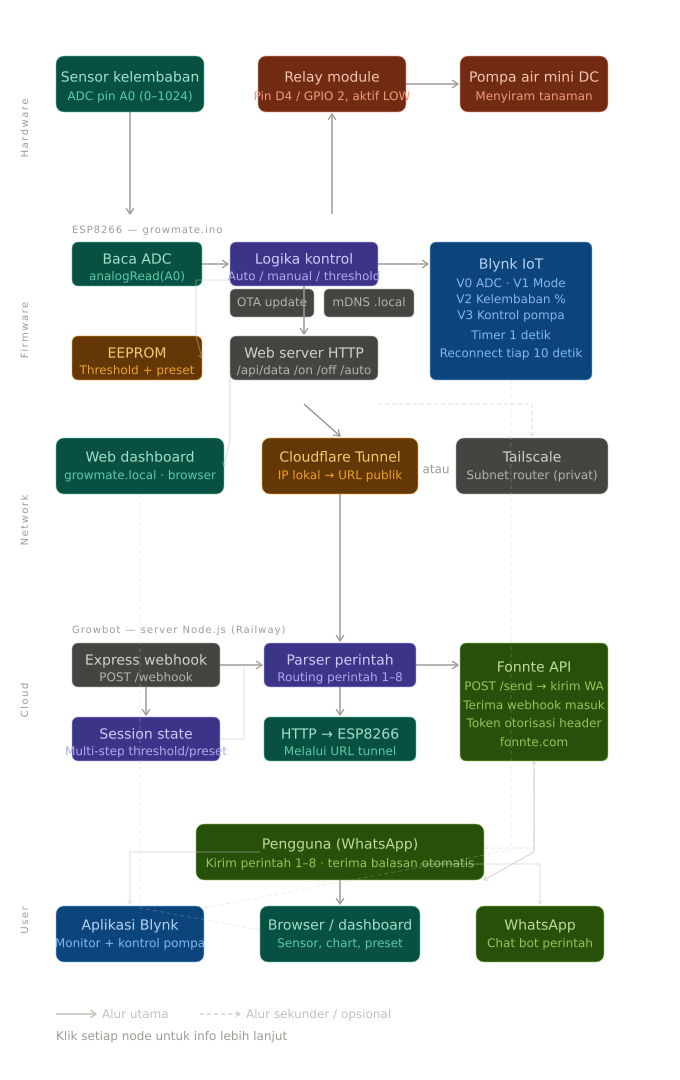
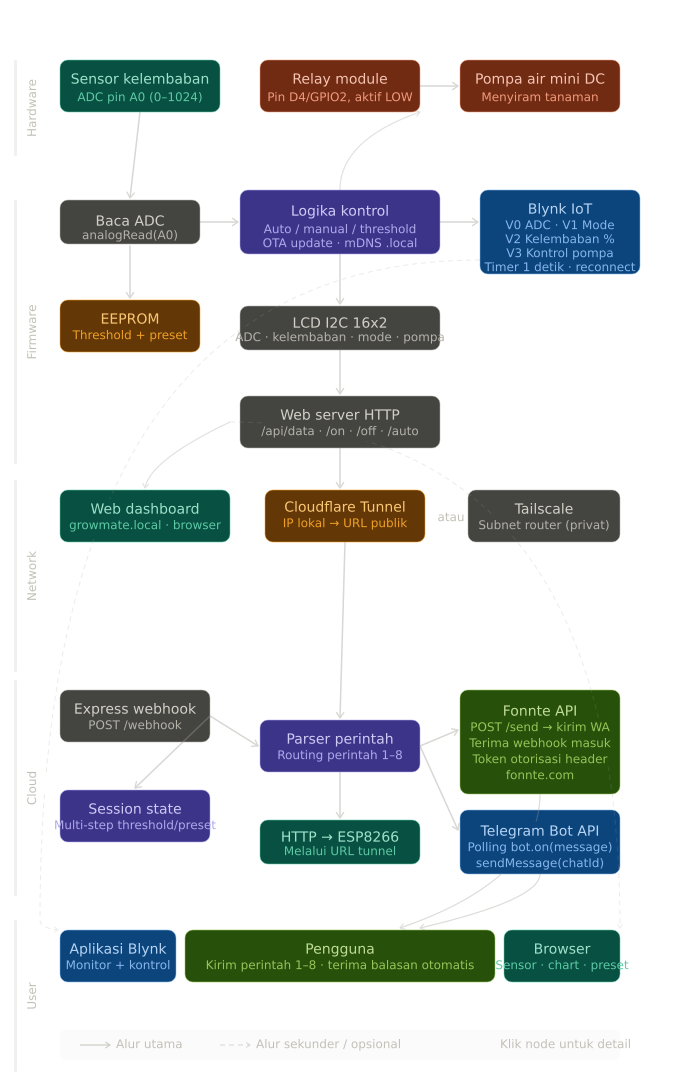
Update flowchart asset to improve visual representation

diff --git a/README.md b/README.md
@@ -1,15 +1,17 @@
 <div align="center">
   <img src="asset/growmate.png" alt="Growmate Logo" width="120" height="120" style="border-radius:12px"/>
   <h1>Growbot</h1>
-  <p>WhatsApp Gateway untuk <a href="https://github.com/hilmyah/Growmate">Growmate</a> — sistem irigasi cerdas berbasis ESP8266 / WEMOS D1 Mini</p>
+  <p>WhatsApp & Telegram Gateway untuk <a href="https://github.com/hilmyah/Growmate">Growmate</a> — sistem irigasi cerdas berbasis ESP8266 / WEMOS D1 Mini</p>
 </div>
 
 ---
 
-Growbot adalah server perantara berbasis **Node.js** yang menghubungkan WhatsApp (via Fonnte) dengan modul ESP8266 Growmate. Sistem irigasi dapat dipantau dan dikontrol dari jarak jauh hanya dengan mengirim pesan teks biasa ke nomor WhatsApp bot.
+Growbot adalah server perantara berbasis **Node.js** yang menghubungkan **WhatsApp** (via Fonnte) dan **Telegram** dengan modul ESP8266 Growmate. Sistem irigasi dapat dipantau dan dikontrol dari jarak jauh melalui pesan teks biasa. Kedua platform berjalan bersamaan dan saling membackup — jika satu bermasalah, platform lainnya tetap berfungsi.
 
 ```
-WhatsApp → Fonnte → Growbot (Railway) → Cloudflare Tunnel / Tailscale → ESP8266
+WhatsApp  →  Fonnte  ┐
+                      ├→  Growbot (Railway)  →  Cloudflare Tunnel  →  ESP8266
+Telegram  →  Polling ┘
 ```
 
 > Repo firmware dan hardware: [hilmyah/Growmate](https://github.com/hilmyah/Growmate)
@@ -23,12 +25,13 @@ WhatsApp → Fonnte → Growbot (Railway) → Cloudflare Tunnel / Tailscale → 
 - [Struktur Proyek](#struktur-proyek)
 - [Persyaratan](#persyaratan)
 - [Tahap 1 — Instalasi](#tahap-1--instalasi)
-- [Tahap 2 — Setup Fonnte](#tahap-2--setup-fonnte)
-- [Tahap 3 — Remote Access](#tahap-3--remote-access)
+- [Tahap 2 — Setup WhatsApp (Fonnte)](#tahap-2--setup-whatsapp-fonnte)
+- [Tahap 3 — Setup Telegram Bot](#tahap-3--setup-telegram-bot)
+- [Tahap 4 — Remote Access](#tahap-4--remote-access)
   - [Opsi A — Cloudflare Tunnel](#opsi-a--cloudflare-tunnel-direkomendasikan)
   - [Opsi B — Tailscale Subnet Router](#opsi-b--tailscale-subnet-router)
-- [Tahap 4 — Deploy ke Railway](#tahap-4--deploy-ke-railway)
-- [Tahap 5 — Menjalankan Secara Lokal](#tahap-5--menjalankan-secara-lokal)
+- [Tahap 5 — Deploy ke Railway](#tahap-5--deploy-ke-railway)
+- [Tahap 6 — Menjalankan Secara Lokal](#tahap-6--menjalankan-secara-lokal)
 - [Referensi API ESP8266](#referensi-api-esp8266)
 
 ---
@@ -40,13 +43,13 @@ WhatsApp → Fonnte → Growbot (Railway) → Cloudflare Tunnel / Tailscale → 
 | `1` | Status terkini — ADC, kelembaban %, kondisi tanah, mode, threshold, waktu terakhir disiram |
 | `2` | Nyalakan pompa manual (mati otomatis dalam 60 detik) |
 | `3` | Matikan pompa manual |
-| `4` | Aktifkan mode otomatis — pompa bekerja berdasarkan threshold |
-| `5` | Atur nilai threshold kelembaban (input multi-step, rentang 200–1024) |
+| `4` | Aktifkan mode otomatis |
+| `5` | Atur nilai threshold (input multi-step, rentang 200–1024) |
 | `6` | Tambah preset tanaman baru (nama + threshold, input multi-step) |
-| `7` | Riwayat 5 data kelembaban terakhir beserta persentasenya |
+| `7` | Riwayat 5 data kelembaban terakhir |
 | `8` | Jumlah sesi penyiraman hari ini |
 
-Menu perintah dikirimkan otomatis di setiap balasan sehingga pengguna tidak perlu menghapal.
+Menu dikirim otomatis di setiap balasan. Kedua platform (WA & Telegram) mendukung seluruh perintah di atas. Token masing-masing bersifat opsional — platform hanya aktif jika token-nya diisi di `.env`.
 
 ---
 
@@ -56,21 +59,23 @@ Menu perintah dikirimkan otomatis di setiap balasan sehingga pengguna tidak perl
 
 Alur singkat:
 
-1. **ESP8266 / WEMOS D1 Mini** membaca kelembaban tanah via ADC, menampilkan status di LCD, dan menjalankan web server HTTP lokal.
+1. **ESP8266 / WEMOS D1 Mini** membaca kelembaban tanah, menampilkan status di LCD, dan menjalankan web server HTTP lokal.
 2. **Cloudflare Tunnel / Tailscale** mengekspos IP lokal ESP8266 ke internet secara aman.
-3. **Growbot** (di Railway) menerima pesan dari Fonnte melalui webhook, memparsing perintah, lalu memanggil endpoint ESP melalui URL tunnel.
-4. **Fonnte** meneruskan balasan dari Growbot ke WhatsApp pengguna.
+3. **Growbot** (di Railway) menerima pesan dari Fonnte via webhook **atau** dari Telegram via polling, memproses perintah, lalu memanggil endpoint ESP melalui URL tunnel.
+4. Balasan dikirim balik ke pengguna di platform yang sama.
+
+Session state (multi-step untuk threshold dan preset) dipisah per platform menggunakan key format `wa:<nomor>` dan `tg:<chatId>`, sehingga keduanya tidak saling bentrok.
 
 ---
 
 ## Struktur Proyek
 
 ```
-growbot/
+Growbot/
 ├── asset/
 │   ├── flowchart.png     # Diagram alur sistem
 │   └── growmate.png      # Logo proyek
-├── index.js              # Server utama — webhook, routing perintah, komunikasi ESP
+├── index.js              # Server utama — webhook WA, polling TG, routing perintah
 ├── package.json
 ├── package-lock.json
 ├── .env.example          # Template variabel environment
@@ -81,27 +86,30 @@ growbot/
 
 | Bagian | Keterangan |
 |---|---|
-| `sessions` | Object in-memory untuk menyimpan state percakapan multi-step (threshold, preset) |
+| `sessions` | Object in-memory — state percakapan multi-step per platform & pengguna |
 | `menuText()` | Generator teks menu yang disisipkan di setiap balasan |
-| `sendWA(to, msg)` | Mengirim pesan ke nomor WhatsApp tertentu via Fonnte API |
-| `getESPData()` | `GET /api/data` ke ESP — mengambil status sensor, pompa, mode, threshold, dan data LCD |
-| `cmdESP(path)` | `GET {path}` ke ESP — mengirim perintah seperti `/on`, `/off`, `/auto` |
-| `POST /webhook` | Endpoint utama yang menerima pesan masuk dari Fonnte dan memroses perintah |
+| `sendMsg(platform, target, text)` | Abstraksi pengiriman pesan — WA via Fonnte, Telegram via `bot.sendMessage` |
+| `handleMessage(platform, target, message)` | Logika terpusat — dipanggil oleh webhook WA dan listener Telegram |
+| `getESPData()` | `GET /api/data` ke ESP |
+| `cmdESP(path)` | `GET {path}` ke ESP — perintah `/on`, `/off`, `/auto`, `/api/threshold` |
+| `POST /webhook` | Menerima pesan masuk dari Fonnte (WhatsApp) |
+| `bot.on('message')` | Menerima pesan masuk dari Telegram via polling |
 
 ---
 
 ## Persyaratan
 
 - Node.js v16 atau lebih baru
-- Akun [Fonnte](https://fonnte.com) dengan device WhatsApp aktif
-- Firmware Growmate sudah berjalan di ESP8266 / WEMOS D1 Mini (lihat [hilmyah/Growmate](https://github.com/hilmyah/Growmate))
-- `cloudflared` **atau** Tailscale terinstal di komputer yang satu jaringan dengan ESP8266
+- Akun [Fonnte](https://fonnte.com) dengan device WhatsApp aktif *(opsional — bisa WA saja, TG saja, atau keduanya)*
+- Bot Telegram dari [@BotFather](https://t.me/BotFather) *(opsional)*
+- Firmware Growmate sudah berjalan di ESP8266 (lihat [hilmyah/Growmate](https://github.com/hilmyah/Growmate))
+- `cloudflared` atau Tailscale di komputer yang satu jaringan dengan ESP8266
 
 ---
 
 ## Tahap 1 — Instalasi
 
-**1. Clone repo dan install dependensi**
+**Clone dan install dependensi:**
 
 ```bash
 git clone https://github.com/hilmyah/Growbot.git
@@ -109,92 +117,83 @@ cd Growbot
 npm install
 ```
 
-**2. Salin dan isi file environment**
+**Salin dan isi file environment:**
 
 ```bash
 cp .env.example .env
 ```
 
-Edit `.env` dan isi nilainya:
-
 ```ini
-FONNTE_TOKEN=token_dari_dashboard_fonnte
-ESP_URL=https://url-tunnel.trycloudflare.com
+# WhatsApp — token dari dashboard Fonnte (kosongkan jika tidak dipakai)
+FONNTE_TOKEN=token_dari_fonnte
+
+# Telegram — token dari @BotFather (kosongkan jika tidak dipakai)
+TELEGRAM_TOKEN=1234567890:AAHxxxxxxxxxxxxxxxxxxxxxxxxxxxxxxxxx
+
+# URL ESP8266 dari Cloudflare Tunnel atau Tailscale IP
+ESP_URL=https://random-name.trycloudflare.com
+
 PORT=3000
 ```
 
-| Variabel | Keterangan |
-|---|---|
-| `FONNTE_TOKEN` | Token dari dashboard Fonnte (lihat Tahap 2) |
-| `ESP_URL` | URL publik ESP8266 dari Cloudflare Tunnel atau IP via Tailscale (lihat Tahap 3) |
-| `PORT` | Port server (default: `3000`) |
+Saat server dijalankan, terminal menampilkan platform mana yang aktif:
+```
+WhatsApp (Fonnte) aktif.
+Telegram Bot aktif.
+Server aktif pada port 3000
+```
 
 ---
 
-## Tahap 2 — Setup Fonnte
+## Tahap 2 — Setup WhatsApp (Fonnte)
 
-Fonnte berfungsi sebagai jembatan antara WhatsApp dan server Growbot.
-
-1. Buka [fonnte.com](https://fonnte.com) dan buat akun.
-2. Di dashboard, pilih **Tambah Device** → scan QR Code menggunakan WhatsApp yang akan dijadikan bot.
-3. Salin **Token** yang muncul, masukkan ke `FONNTE_TOKEN` di file `.env`.
-4. Setelah server Growbot di-deploy (lihat Tahap 4), buka pengaturan device di Fonnte dan isi kolom **Webhook URL**:
+1. Buka [fonnte.com](https://fonnte.com) → buat akun
+2. **Tambah Device** → scan QR menggunakan WhatsApp yang dijadikan bot
+3. Salin **Token** → masukkan ke `FONNTE_TOKEN` di `.env`
+4. Setelah server di-deploy (lihat Tahap 5), isi **Webhook URL** di pengaturan device Fonnte:
    ```
    https://nama-app.up.railway.app/webhook
    ```
-5. Kirim pesan apa saja ke nomor bot untuk memastikan webhook aktif.
-
-> Untuk pengujian lokal, baca [Tahap 5](#tahap-5--menjalankan-secara-lokal) untuk cara mendapatkan URL publik sementara.
+5. Kirim pesan apa saja ke nomor bot untuk memverifikasi webhook aktif
 
 ---
 
-## Tahap 3 — Remote Access
+## Tahap 3 — Setup Telegram Bot
 
-Server Growbot yang berjalan di Railway tidak dapat langsung menjangkau ESP8266 di jaringan lokal. Gunakan salah satu metode di bawah pada komputer yang **terhubung ke WiFi yang sama dengan ESP8266** dan biarkan berjalan selama sistem digunakan.
+1. Buka [@BotFather](https://t.me/BotFather) di Telegram → kirim `/newbot`
+2. Ikuti instruksi — pilih nama dan username bot
+3. Salin **token** yang diberikan (format: `1234567890:AAHxxxxxxx`) → masukkan ke `TELEGRAM_TOKEN` di `.env`
+4. Tidak perlu konfigurasi webhook — Growbot menggunakan **polling** sehingga langsung aktif saat server berjalan
+
+> Telegram polling tidak memerlukan URL publik untuk bot itu sendiri. Yang memerlukan URL publik hanyalah `ESP_URL` (tunnel ke ESP8266).
+
+---
+
+## Tahap 4 — Remote Access
+
+Server Growbot di Railway tidak dapat langsung menjangkau ESP8266 di jaringan lokal. Jalankan salah satu metode berikut di komputer yang **satu jaringan WiFi dengan ESP8266** dan biarkan berjalan selama sistem digunakan.
 
 ### Opsi A — Cloudflare Tunnel (Direkomendasikan)
 
-Tidak memerlukan akun, URL publik langsung aktif tanpa konfigurasi port forwarding.
-
-**Instalasi `cloudflared`:**
-
 ```bash
-# macOS
-brew install cloudflared
+# Instalasi
+brew install cloudflared              # macOS
+winget install Cloudflare.cloudflared # Windows
 
-# Windows (via winget)
-winget install Cloudflare.cloudflared
-
-# Linux (Debian/Ubuntu)
-curl -L https://pkg.cloudflare.com/cloudflared-stable-linux-amd64.deb -o cloudflared.deb
-sudo dpkg -i cloudflared.deb
-```
-
-**Jalankan tunnel ke IP ESP8266:**
-
-```bash
+# Jalankan tunnel ke IP ESP8266
 cloudflared tunnel --url http://192.168.X.X
-# Ganti dengan IP ESP8266 yang tampil di Serial Monitor Arduino IDE
 ```
 
-URL publik akan muncul di terminal:
+URL publik muncul di terminal:
 ```
 https://random-name.trycloudflare.com
 ```
 
-Salin URL ini ke `ESP_URL` di file `.env` atau variabel Railway.
+Salin ke `ESP_URL` di `.env` atau variabel Railway.
 
-> **Catatan:** URL berubah setiap kali `cloudflared` dijalankan ulang. Untuk URL permanen, daftar akun Cloudflare gratis dan buat [Named Tunnel](https://developers.cloudflare.com/cloudflare-one/connections/connect-networks/).
-
----
+> URL berubah setiap `cloudflared` dijalankan ulang. Untuk URL permanen, buat [Named Tunnel](https://developers.cloudflare.com/cloudflare-one/connections/connect-networks/) dengan akun Cloudflare gratis.
 
 ### Opsi B — Tailscale Subnet Router
-
-Cocok jika akses ingin dibatasi hanya ke anggota tim atau perangkat tertentu. Koneksi berjalan lewat jaringan privat Tailscale tanpa URL publik.
-
-**Instalasi Tailscale:** unduh di [tailscale.com/download](https://tailscale.com/download).
-
-**Aktifkan subnet routing** di komputer yang satu jaringan dengan ESP8266:
 
 ```bash
 # Linux / macOS
@@ -204,79 +203,70 @@ sudo tailscale up --advertise-routes=192.168.1.0/24
 tailscale up --advertise-routes=192.168.1.0/24
 ```
 
-> Sesuaikan `192.168.1.0/24` dengan subnet WiFi yang digunakan (cek dengan `ipconfig` / `ip a`).
+Sesuaikan subnet dengan jaringan WiFi yang digunakan. Setujui route di [Tailscale Admin Console](https://login.tailscale.com/admin/machines), lalu gunakan IP lokal ESP8266 sebagai `ESP_URL`:
 
-Setelah itu:
-
-1. Buka [Tailscale Admin Console](https://login.tailscale.com/admin/machines).
-2. Temukan perangkat yang baru terhubung → klik **Edit route settings** → aktifkan subnet yang diiklankan.
-3. Pastikan server Railway juga terdaftar di akun Tailscale yang sama (atau gunakan Tailscale Auth Key untuk otomasi).
-
-Gunakan IP lokal ESP8266 sebagai `ESP_URL`:
 ```ini
 ESP_URL=http://192.168.1.X
 ```
 
 ---
 
-## Tahap 4 — Deploy ke Railway
+## Tahap 5 — Deploy ke Railway
 
-Railway menjalankan Growbot secara permanen di cloud tanpa perlu menyalakan komputer sendiri.
-
-1. Push repo ini ke GitHub (fork atau clone ke akun kamu).
-2. Buka [railway.app](https://railway.app) → **New Project** → **Deploy from GitHub Repo**.
-3. Pilih repo `Growbot`.
-4. Buka tab **Variables** di Railway dan tambahkan:
+1. Push repo ini ke GitHub
+2. Buka [railway.app](https://railway.app) → **New Project** → **Deploy from GitHub Repo**
+3. Pilih repo `Growbot`
+4. Buka tab **Variables**, tambahkan:
 
    | Key | Value |
    |---|---|
-   | `FONNTE_TOKEN` | Token dari Fonnte |
-   | `ESP_URL` | URL Cloudflare Tunnel atau IP via Tailscale |
+   | `FONNTE_TOKEN` | Token Fonnte *(kosongkan jika tidak dipakai)* |
+   | `TELEGRAM_TOKEN` | Token BotFather *(kosongkan jika tidak dipakai)* |
+   | `ESP_URL` | URL Cloudflare Tunnel atau IP Tailscale |
    | `PORT` | `3000` |
 
-5. Railway otomatis menjalankan `npm start` setelah deploy selesai.
-6. Salin **URL domain Railway** yang diberikan (contoh: `https://growbot-production.up.railway.app`).
-7. Tempel URL tersebut ditambah `/webhook` ke kolom Webhook URL di Fonnte (lihat [Tahap 2](#tahap-2--setup-fonnte)).
+5. Railway otomatis menjalankan `npm start`
+6. Salin URL Railway → tempel ditambah `/webhook` ke Webhook URL di Fonnte
 
 ---
 
-## Tahap 5 — Menjalankan Secara Lokal
+## Tahap 6 — Menjalankan Secara Lokal
 
 ```bash
 npm start
 ```
 
-Server berjalan di `http://localhost:3000`. Untuk menerima webhook dari Fonnte saat pengembangan lokal, buat URL publik sementara:
+Untuk menerima webhook Fonnte saat pengembangan lokal, buat URL publik sementara:
 
 ```bash
-# Menggunakan cloudflared
+# Cloudflared
 cloudflared tunnel --url http://localhost:3000
 
-# Atau menggunakan ngrok
+# ngrok
 ngrok http 3000
 
-# Atau menggunakan localhost.run. Layanan ini memanfaatkan klien SSH bawaan sistem operasi untuk melakukan tunneling tanpa memerlukan instalasi aplikasi pihak ketiga.
+# localhost.run (tanpa instalasi — menggunakan SSH bawaan sistem)
 ssh -R 80:localhost:3000 nokey@localhost.run
 ```
 
-Gunakan URL yang dihasilkan sebagai Webhook URL di Fonnte sementara pengujian berlangsung.
+Gunakan URL yang dihasilkan sebagai Webhook URL sementara di Fonnte.
+
+> Telegram polling berjalan langsung tanpa URL publik — tidak perlu konfigurasi tambahan untuk pengujian lokal.
 
 ---
 
 ## Referensi API ESP8266
 
-Endpoint yang dikonsumsi Growbot dari firmware Growmate:
-
 | Method | Endpoint | Keterangan |
 |:---:|---|---|
-| GET | `/api/data` | Status lengkap (ADC, kelembaban, kondisi, mode, threshold, count) |
-| GET | `/api/threshold?val=700` | Ubah nilai threshold |
-| GET | `/api/presets` | Ambil daftar preset tanaman |
-| POST | `/api/presets` | Simpan preset baru |
+| GET | `/api/data` | Status lengkap (ADC, kondisi, pompa, mode, threshold, count) |
+| GET | `/api/threshold?val=700` | Ubah threshold |
+| GET | `/api/presets` | Ambil daftar preset kustom |
+| POST | `/api/presets` | Simpan preset kustom |
 | GET | `/api/history` | 5 data ADC terakhir |
-| GET | `/on` | Nyalakan pompa — Manual ON |
-| GET | `/off` | Matikan pompa — Manual OFF |
-| GET | `/auto` | Aktifkan mode otomatis |
+| GET | `/on` | Manual ON |
+| GET | `/off` | Manual OFF |
+| GET | `/auto` | Mode otomatis |
 
 ---
 
